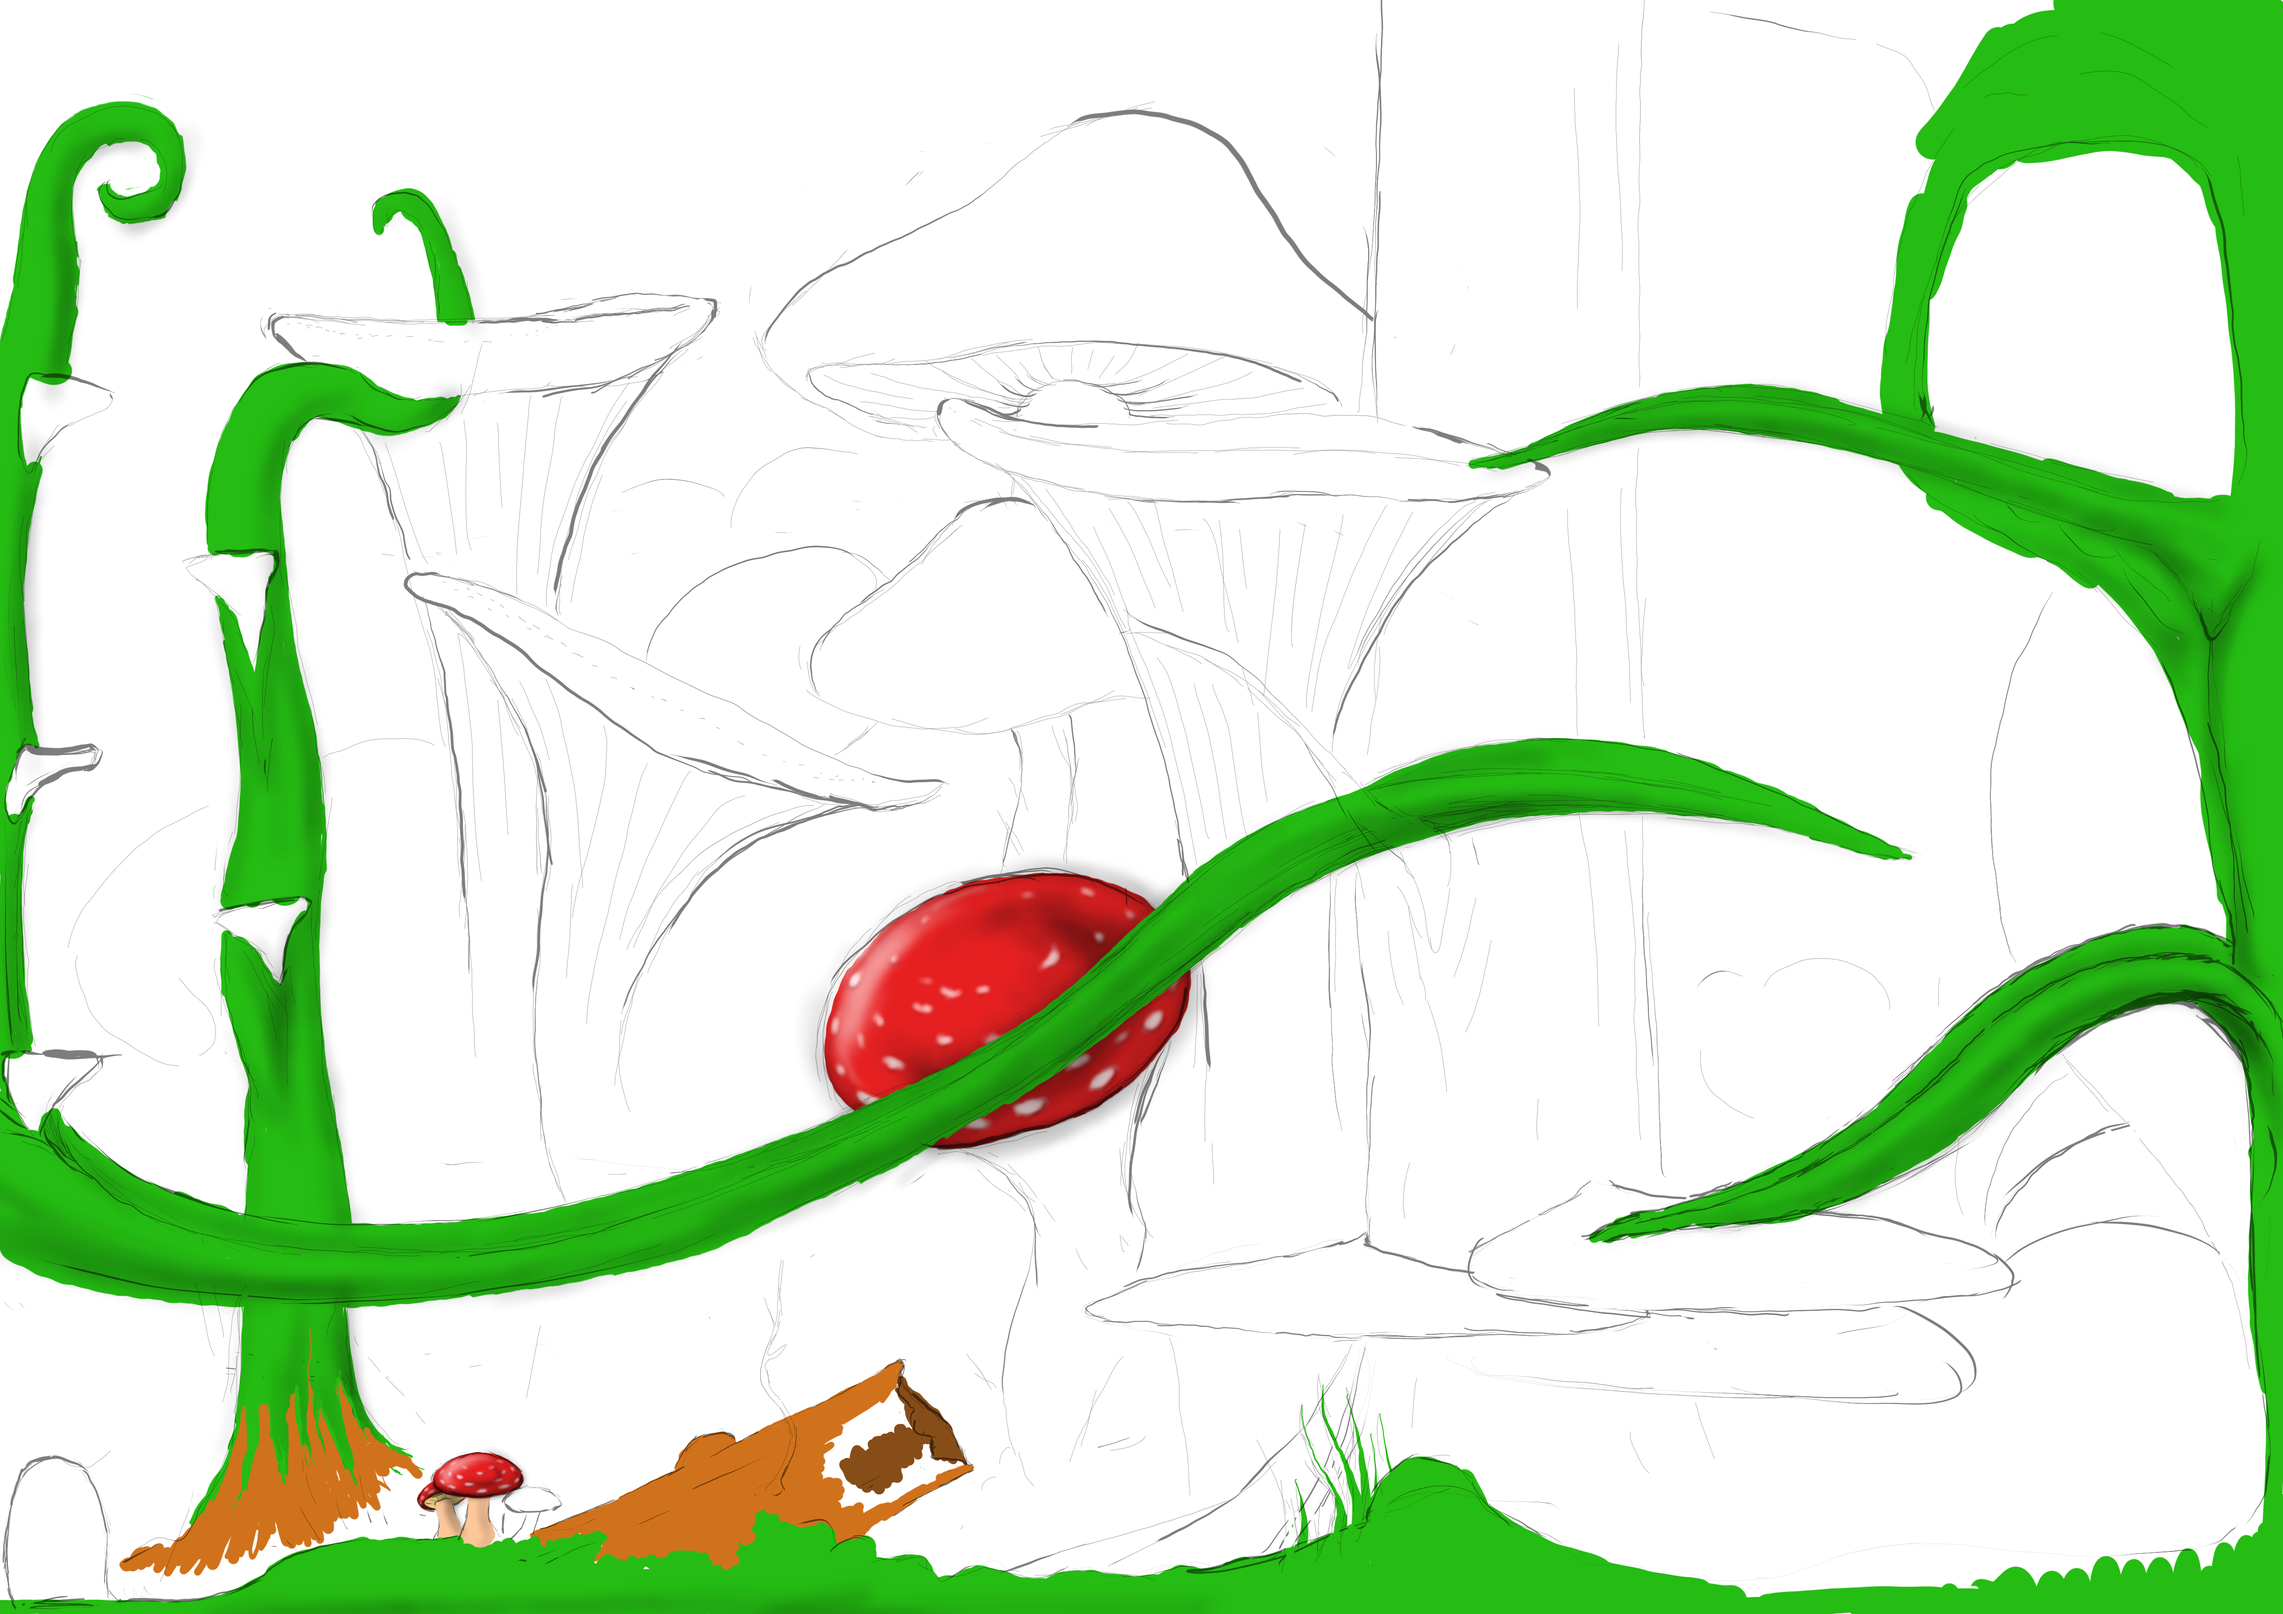
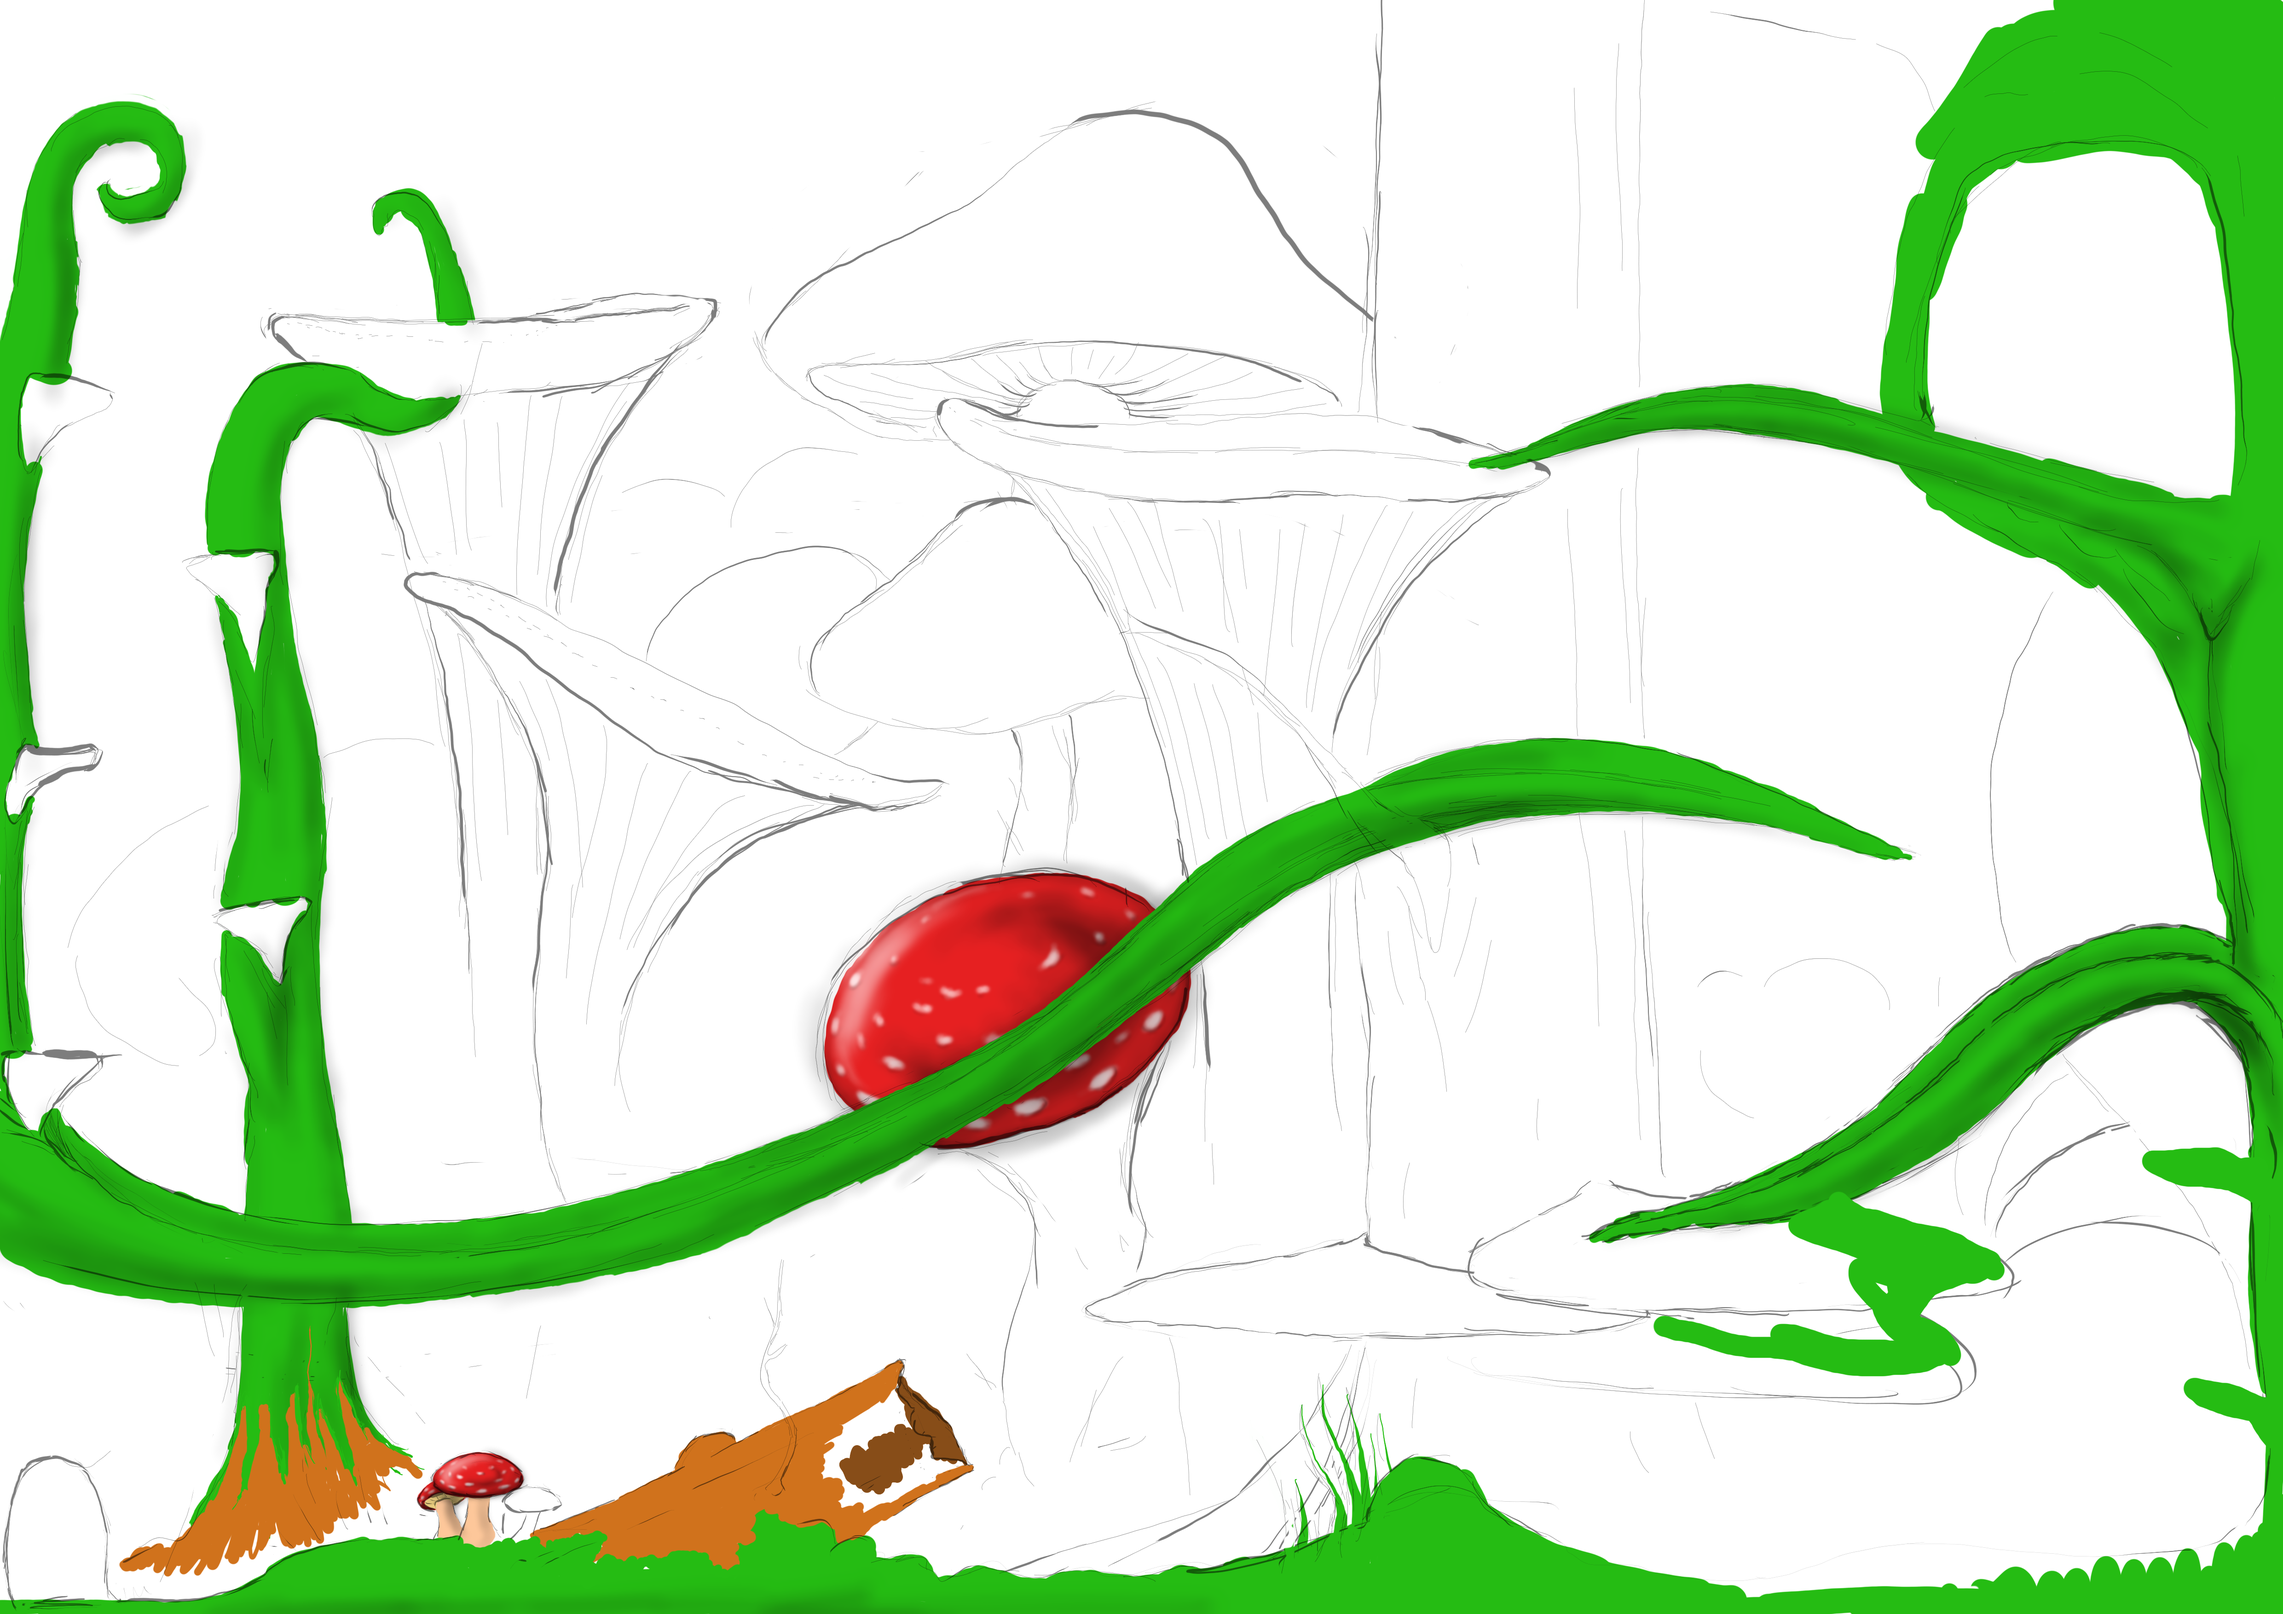
updated collision

Changed region(s): [[0.7186, 0.7457, 0.8748, 0.87], [0.9373, 0.8389, 0.9998, 0.9011], [0.9373, 0.7147, 0.9998, 0.7457]]

diff --git a/forestlevel.py b/forestlevel.py
@@ -72,7 +72,7 @@ class World(pygame.sprite.Sprite):
         self.image = pygame.image.load(world_image).convert_alpha()
         self.mask = pygame.mask.from_surface(self.image)
         self.rect = self.image.get_rect()
-        self.pos = vec((0, -gh+wh))
+        self.pos = vec(0, -gh+wh)
         self.vel = vec(0, 0)
 
     def scroll_x(self, speed):
@@ -95,13 +95,9 @@ class Player(pygame.sprite.Sprite):
         self.image = self.images[self.index].convert_alpha()
         self.mask = pygame.mask.from_surface(self.image)
         self.rect = self.image.get_rect()
-        self.pos = vec((ww/8, wh-wh/8))
+        self.pos = vec(ww/8, wh-wh/8)
         self.vel = vec(0, 0)
         self.acc = vec(0, 0)
-        '''self.dx = self.mask.overlap_area(
-            col_group, (ww+1, wh)) - self.mask.overlap_area(col_group, (ww-1, wh))
-        self.dy = self.mask.overlap_area(
-            col_group, (ww, wh+1)) - self.mask.overlap_area(col_group, (ww, wh-1))'''
         self.jumping = False
         self.button = False
         self.score = 0
@@ -111,6 +107,8 @@ class Player(pygame.sprite.Sprite):
         pressed_keys = pygame.key.get_pressed()
         hits = pygame.sprite.spritecollide(
             self, col_group, False, collided=pygame.sprite.collide_mask)
+        hits_wall = pygame.sprite.spritecollide(
+            self, col_group_wall, False, collided=pygame.sprite.collide_mask)
 
         if pressed_keys[K_a]:
             self.acc.x = -acceleration
@@ -119,6 +117,9 @@ class Player(pygame.sprite.Sprite):
                 self.index = len(self.images)-1
             if hits and self.vel.y >= -4:
                 self.vel.y -= 1
+            if self.vel.x<0:
+                if hits_wall:
+                    self.vel.x=2
         if pressed_keys[K_d]:
             self.acc.x = acceleration
             self.index += 1
@@ -126,11 +127,14 @@ class Player(pygame.sprite.Sprite):
                 self.index = 0
             if hits and self.vel.y >= -4:
                 self.vel.y -= 1
-        '''if hits and self.vel.x != 0:
-            self.pos.y-=1
-            if hits:
-                self.vel.x = -self.vel.x'''
-
+            if self.vel.x>0:
+                if hits_wall:
+                    self.vel.x=-2
+        if self.vel.y<0:
+            if hits_wall:
+                self.vel.y=-self.vel.y
+            if hits and hits_wall:
+                self.vel.y=-3
         self.image = self.images[self.index]
 
         self.acc.x += self.vel.x * friction
@@ -141,6 +145,12 @@ class Player(pygame.sprite.Sprite):
 
         if self.vel.y > 0:
             if hits:
+                if self.vel.y >= 0.6:
+                    self.vel.y = -self.vel.y*.6
+                else:
+                    self.vel.y = -0.6
+                self.jumping = False
+            if hits and hits_wall:
                 if self.vel.y >= 0.6:
                     self.vel.y = -self.vel.y*.6
                 else:
@@ -164,7 +174,9 @@ player = Player()
 player_group = pygame.sprite.GroupSingle()
 player_group.add(player)
 
-collision = World('gfx/forest-col.png')
+#collision = World('gfx/forest-col.png')
+collision_wall = World('gfx/forest-col-wall.png')
+collision_floor = World('gfx/forest-col-floor.png')
 taakse = World(f'gfx/forest-bg.png')
 eteen = World('gfx/forest-fg.png')
 
@@ -180,7 +192,7 @@ for point in points:
     point_group.add(point)
 
 doors = []
-doors.append(Door((400, 770), 'map', 'gfx/drawn-mario.png'))
+doors.append(Door((200, 770), 'map', 'gfx/drawn-mario.png'))
 doors.append(Door((4650, -1808), 'tile', 'gfx/drawn-mario.png'))
 door_group = pygame.sprite.Group()
 for door in doors:
@@ -189,13 +201,15 @@ for door in doors:
 score_count = int(len(points))
 
 col_group = pygame.sprite.Group()
-col_group.add(collision)
+col_group.add(collision_floor)
+col_group_wall = pygame.sprite.Group()
+col_group_wall.add(collision_wall)
 sprite_group = pygame.sprite.Group()
 sprite_group.add(taakse)
 sprite_group.add(player)
 sprite_group.add(eteen)
 
-world_list = [eteen, taakse, collision]
+world_list = [eteen, taakse, collision_wall,collision_floor]
 for point in points:
     world_list.append(point)
 for door in doors:
@@ -230,22 +244,22 @@ def start_game(run):
 
         speed_x = player.vel.x
         speed_y = player.vel.y
-        if player.pos.x < ww/4 and player.vel.x < 0 and collision.pos.x < 0:
+        if player.pos.x < ww/4 and player.vel.x < 0 and collision_floor.pos.x < 0:
             for world in world_list:
                 world.scroll_x(-(speed_x))
             player.vel.x = 0
             player.pos.x -= speed_x
-        elif player.pos.x > ww-(ww/4) and player.vel.x > 0 and collision.pos.x > (-gw+ww):
+        elif player.pos.x > ww-(ww/4) and player.vel.x > 0 and collision_floor.pos.x > (-gw+ww):
             for world in world_list:
                 world.scroll_x(-(speed_x))
             player.vel.x = 0
             player.pos.x -= speed_x
-        if player.pos.y < wh/3 and player.vel.y < 0 and collision.pos.y < 0:
+        if player.pos.y < wh/3 and player.vel.y < 0 and collision_floor.pos.y < 0:
             for world in world_list:
                 world.scroll_y(-(speed_y))
             player.vel.y = 0
             player.pos.y -= speed_y
-        elif player.pos.y > wh-(wh/3) and player.vel.y > 0 and collision.pos.y > (-gh+wh):
+        elif player.pos.y > wh-(wh/3) and player.vel.y > 0 and collision_floor.pos.y > (-gh+wh):
             for world in world_list:
                 world.scroll_y(-(speed_y))
             player.vel.y = 0
